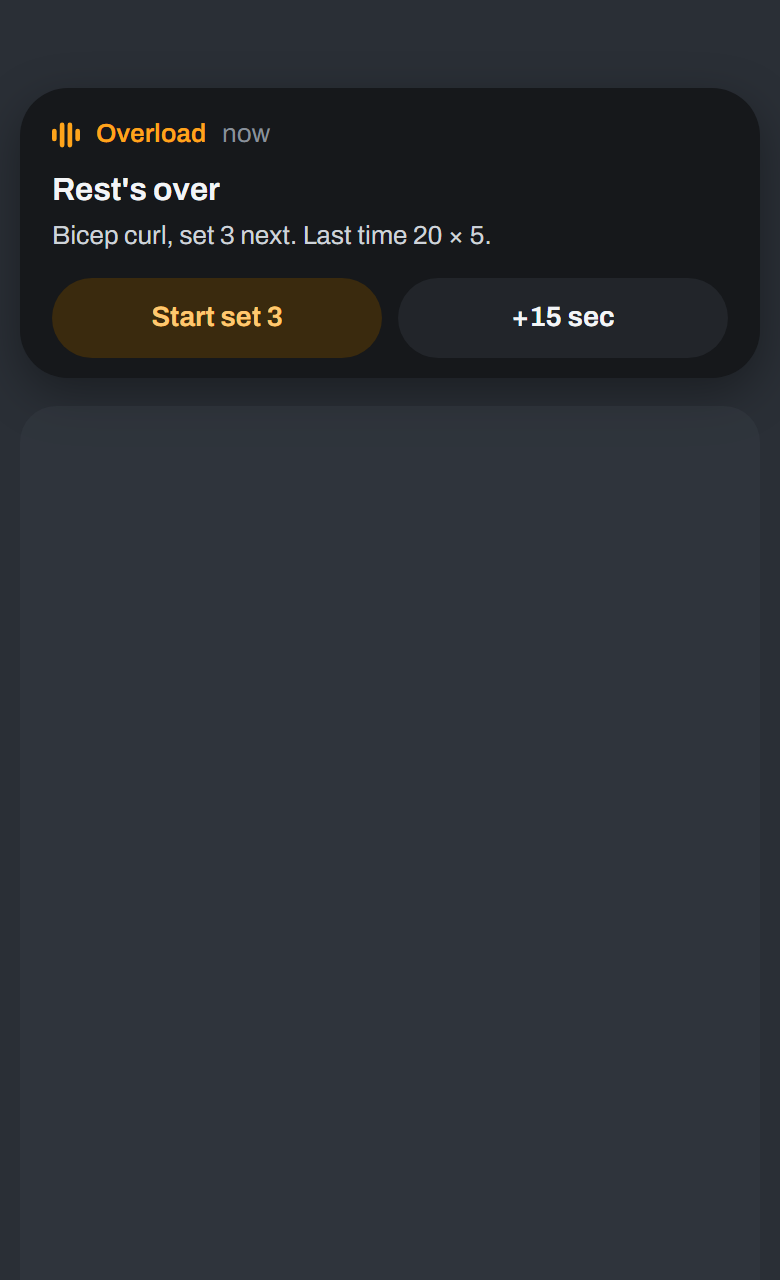
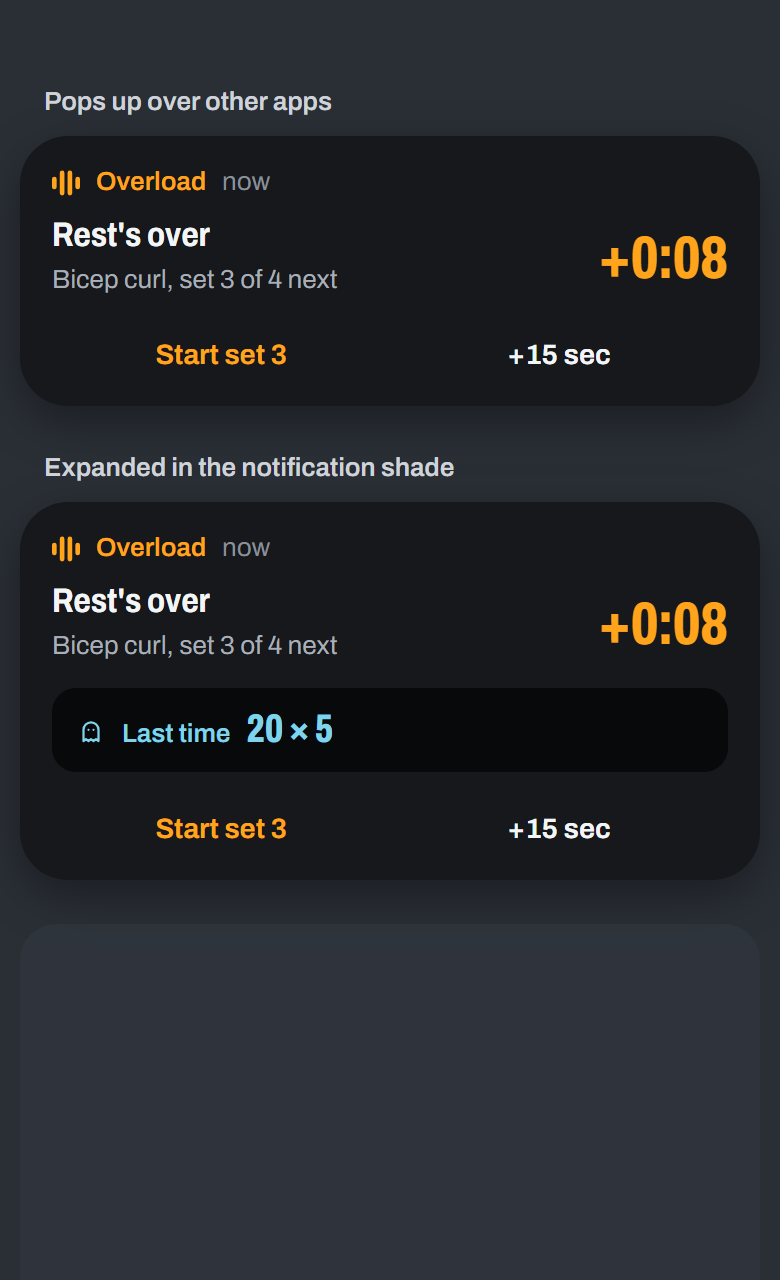
design: rest-over notification with our own content (27); no Typing label in Log set (09)

diff --git a/design/source/27-rest-over-banner.html b/design/source/27-rest-over-banner.html
@@ -2,7 +2,7 @@
 <html lang="en">
 <head>
 <meta charset="utf-8">
-<title>Rest's over banner</title>
+<title>Rest's over notification</title>
 <script src="./support.js"></script>
 </head>
 <body>
@@ -13,24 +13,62 @@
 body{margin:0;background:#060708}
 .app{position:relative;width:390px;overflow:hidden;box-sizing:border-box;font-family:'Archivo',system-ui,sans-serif;font-size:15px;line-height:1.4;color:#F3F5F7;background:#2A2F36;-webkit-font-smoothing:antialiased}
 .app *{box-sizing:border-box}
+.num{font-stretch:68%;font-weight:800;font-variant-numeric:tabular-nums;line-height:1}
+.muted{color:#A8AFB8}
 .faint{color:#88909A}
 .small{font-size:13px}
-/* Android draws the banner; we set its icon, accent, title, text and two actions. */
-.banner{margin:44px 10px 0;padding:14px 16px 10px;border-radius:24px;background:#16181B;box-shadow:0 8px 24px rgba(0,0,0,.35)}
-.act{flex:1;height:40px;border:0;border-radius:20px;background:#22252A;color:#F3F5F7;font-family:inherit;font-size:14px;font-weight:650}
-.act.main{background:#3A2A0E;color:#FFC870}
-.other{margin:14px 10px 0;height:520px;border-radius:18px;background:#3A4048;opacity:.35}
+.ico{width:22px;height:22px;flex:none;fill:none;stroke:currentColor;stroke-width:1.8;stroke-linecap:round;stroke-linejoin:round}
+.state{margin:22px 22px 8px;font-size:13px;font-weight:600;color:#CED3D9}
+/* Android draws the card, the header row and the action buttons; we draw the content between them. */
+.notif{margin:0 10px;padding:14px 16px 6px;border-radius:24px;background:#16181B;box-shadow:0 8px 24px rgba(0,0,0,.35)}
+.head{display:flex;align-items:center;gap:8px}
+.title{font-size:17px;line-height:1.15;font-weight:700;font-stretch:85%}
+.acts{display:flex;margin-top:8px}
+.act{flex:1;height:40px;border:0;background:transparent;font-family:inherit;font-size:14px;font-weight:650;color:#F3F5F7}
+.act.main{color:#FFA41B}
+.other{margin:22px 10px 0;height:300px;border-radius:18px;background:#3A4048;opacity:.35}
 </style>
 </helmet>
-<main class="app" style="height:640px;padding:0 0 20px">
-  <div class="banner">
-    <div style="display:flex;align-items:center;gap:8px" class="small faint">
+<main class="app" style="height:640px;padding:20px 0 20px">
+  <div class="state">Pops up over other apps</div>
+  <div class="notif">
+    <div class="head small faint">
       <svg width="14" height="13" viewBox="0 0 18 16" aria-hidden="true"><rect x="0" y="4" width="3" height="8" rx="1.5" fill="#FFA41B"></rect><rect x="5" y="0" width="3" height="16" rx="1.5" fill="#FFA41B"></rect><rect x="10" y="0" width="3" height="16" rx="1.5" fill="#FFA41B"></rect><rect x="15" y="4" width="3" height="8" rx="1.5" fill="#FFA41B"></rect></svg>
-      <span style="color:#FFA41B;font-weight:600">Overload</span> <span>now</span>
+      <span style="color:#FFA41B;font-weight:600">Overload</span><span>now</span>
     </div>
-    <div style="margin-top:8px;font-size:16px;font-weight:650">Rest's over</div>
-    <div class="small" style="color:#CED3D9;margin-top:2px">Bicep curl, set 3 next. Last time 20 × 5.</div>
-    <div style="display:flex;gap:8px;margin-top:12px">
+    <div style="display:flex;align-items:center;gap:12px;margin-top:8px">
+      <div style="flex:1;min-width:0">
+        <div class="title">Rest's over</div>
+        <div class="small muted" style="margin-top:3px;white-space:nowrap;overflow:hidden;text-overflow:ellipsis">Bicep curl, set 3 of 4 next</div>
+      </div>
+      <!-- Time since the rest ended; ticks up until acted on. -->
+      <span class="num" style="font-size:30px;color:#FFA41B">+0:08</span>
+    </div>
+    <div class="acts">
+      <button class="act main">Start set 3</button>
+      <button class="act">+15 sec</button>
+    </div>
+  </div>
+
+  <div class="state">Expanded in the notification shade</div>
+  <div class="notif">
+    <div class="head small faint">
+      <svg width="14" height="13" viewBox="0 0 18 16" aria-hidden="true"><rect x="0" y="4" width="3" height="8" rx="1.5" fill="#FFA41B"></rect><rect x="5" y="0" width="3" height="16" rx="1.5" fill="#FFA41B"></rect><rect x="10" y="0" width="3" height="16" rx="1.5" fill="#FFA41B"></rect><rect x="15" y="4" width="3" height="8" rx="1.5" fill="#FFA41B"></rect></svg>
+      <span style="color:#FFA41B;font-weight:600">Overload</span><span>now</span>
+    </div>
+    <div style="display:flex;align-items:center;gap:12px;margin-top:8px">
+      <div style="flex:1;min-width:0">
+        <div class="title">Rest's over</div>
+        <div class="small muted" style="margin-top:3px">Bicep curl, set 3 of 4 next</div>
+      </div>
+      <span class="num" style="font-size:30px;color:#FFA41B">+0:08</span>
+    </div>
+    <div style="margin-top:12px;display:flex;align-items:baseline;gap:8px;padding:10px 12px;border-radius:12px;background:#08090B">
+      <svg class="ico" viewBox="0 0 24 24" aria-hidden="true" style="width:15px;height:15px;color:#7FD3EA;align-self:center"><path d="M6 20V11a6 6 0 0 1 12 0v9l-2-1.5-2 1.5-2-1.5-2 1.5-2-1.5z"></path><path d="M10 11h.01M14 11h.01"></path></svg>
+      <span class="small" style="color:#7FD3EA;font-weight:600">Last time</span>
+      <span class="num" style="font-size:20px;color:#7FD3EA">20 × 5</span>
+    </div>
+    <div class="acts">
       <button class="act main">Start set 3</button>
       <button class="act">+15 sec</button>
     </div>

diff --git a/design/source/09-log-set.html b/design/source/09-log-set.html
@@ -79,7 +79,6 @@ a{color:#FFA41B}a:hover{color:#FFC870}
           <span class="num" style="font-size:44px">6</span>
           <span style="width:2px;height:34px;background:#FFA41B;border-radius:2px"></span>
         </div>
-        <div class="faint small" style="margin-top:6px;text-align:center">Typing</div>
       </div>
     </div>
 
